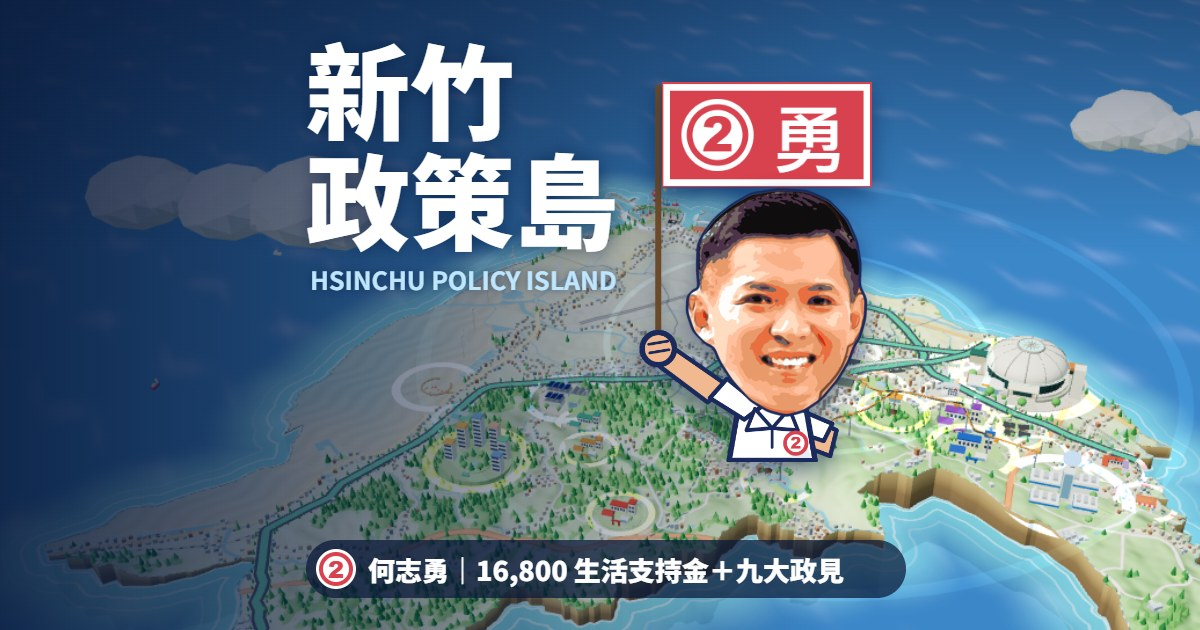
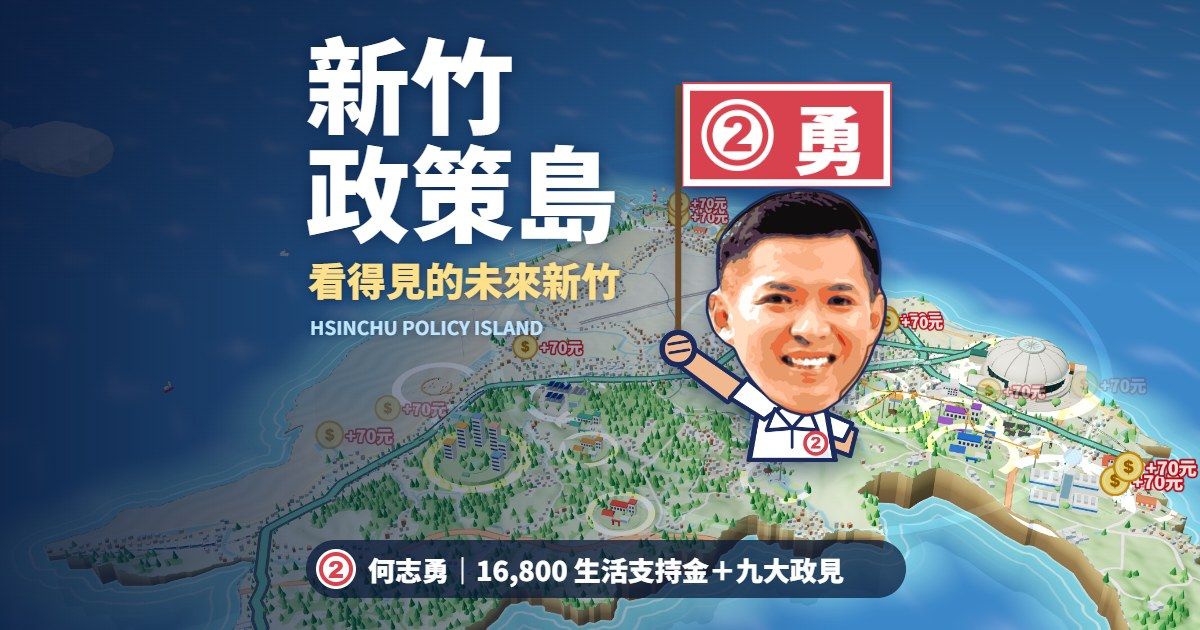
Policy island: add subtitle 看得見的未來新竹 and update intro wording and share image

diff --git a/policy-island/index.html b/policy-island/index.html
@@ -3,28 +3,28 @@
 <head>
   <meta charset="utf-8">
   <meta name="viewport" content="width=device-width, initial-scale=1.0, viewport-fit=cover">
-  <title>新竹政策島｜何志勇 2026 新竹市長候選人</title>
-  <meta name="description" content="用真實地形與道路做出來的 3D 新竹：16,800 市民生活支持金＋何志勇九大政見，全部放在它會發生的地方。智慧巨蛋、鐵路高架、智慧空軌、南寮加州海岸，一次看懂。">
+  <title>新竹政策島｜看得見的未來新竹｜何志勇 2026 新竹市長候選人</title>
+  <meta name="description" content="新竹政策島｜看得見的未來新竹。用真實的地形、道路與海岸所呈現的新竹：16,800 市民生活支持金＋何志勇九大政見，全部放在它會發生的地方。智慧巨蛋、鐵路高架、智慧空軌、南寮加州海岸，一次看懂。">
   <meta name="keywords" content="何志勇, 新竹政策島, 新竹市長, 九大政見, 16800, 智慧巨蛋, 鐵路高架, 亞洲波士頓, 新竹再勇敢一次">
   <link rel="canonical" href="https://chihyungho.github.io/policy-island/">
   <link rel="icon" type="image/jpeg" href="../images/CYH.jpg">
   <meta name="theme-color" content="#0c2447">
-  <meta property="og:title" content="新竹政策島｜何志勇的新竹，一次看懂">
-  <meta property="og:description" content="用真實地形做出來的 3D 新竹。16,800 生活支持金＋九大政見，全部放在它會發生的地方。">
+  <meta property="og:title" content="新竹政策島｜看得見的未來新竹">
+  <meta property="og:description" content="這不是想像出來的島。用真實的地形、道路與海岸所呈現的新竹——16,800 生活支持金加上九大政見，全部放在它會發生的地方。">
   <meta property="og:type" content="website">
   <meta property="og:url" content="https://chihyungho.github.io/policy-island/">
   <meta property="og:locale" content="zh_TW">
-  <meta property="og:image" content="https://chihyungho.github.io/policy-island/assets/og.jpg?v=1">
+  <meta property="og:image" content="https://chihyungho.github.io/policy-island/assets/og.jpg?v=2">
   <meta property="og:image:width" content="1200">
   <meta property="og:image:height" content="630">
   <meta property="og:image:alt" content="新竹政策島：Q 版何志勇舉著 2 號勇字旗，飄在 3D 新竹島上空">
   <meta property="og:site_name" content="何志勇 2026 新竹市長候選人官方網站">
   <meta name="twitter:card" content="summary_large_image">
-  <meta name="twitter:image" content="https://chihyungho.github.io/policy-island/assets/og.jpg?v=1">
+  <meta name="twitter:image" content="https://chihyungho.github.io/policy-island/assets/og.jpg?v=2">
   <link rel="preconnect" href="https://fonts.googleapis.com">
   <link rel="preconnect" href="https://fonts.gstatic.com" crossorigin>
   <link href="https://fonts.googleapis.com/css2?family=Noto+Sans+TC:wght@400;500;700;900&display=swap" rel="stylesheet">
-  <link rel="stylesheet" href="island.css?v=33">
+  <link rel="stylesheet" href="island.css?v=34">
 </head>
 <body>
 <canvas id="scene" aria-label="新竹政策島 3D 地圖"></canvas>
@@ -100,8 +100,9 @@
   <div class="intro-card">
     <div class="intro-badge"><span>2</span>何志勇｜2026 新竹市長候選人</div>
     <h1>新竹<br>政策島</h1>
+    <p class="intro-sub">看得見的未來新竹</p>
     <p class="intro-en">HSINCHU POLICY ISLAND</p>
-    <p class="intro-lead">這不是想像出來的島。<br>這是用<b>真實的地形、道路與海岸</b>做出來的新竹——<br><b>16,800 生活支持金</b>加上<b>九大政見</b>，全部放在它會發生的地方。</p>
+    <p class="intro-lead">這不是想像出來的島。<br>這是用<b>真實的地形、道路與海岸</b>所呈現的新竹——<br><b>16,800 生活支持金</b>加上<b>九大政見</b>，全部放在它會發生的地方。</p>
     <div class="intro-btns">
       <button type="button" id="introGo" class="btn-go"><span class="go-main"><i class="go-no">2</i>新竹再勇敢一次</span><small>看 2 號何志勇怎麼改變新竹 →</small></button>
       <button type="button" id="introTour" class="btn-ghost">▶ 帶我導覽 10 站</button>

diff --git a/policy-island/island.css b/policy-island/island.css
@@ -381,3 +381,7 @@ body[data-ride="brt"] .rv-bus { display: none; }
 
 /* ---- v33：開場畫面也有飄著的 Q 版何志勇 ---- */
 body:not(.started) #mascot { visibility: visible; z-index: 21; }
+
+/* ---- v34：副標「看得見的未來新竹」 ---- */
+.intro-sub { margin: 2px 0 10px; font-size: clamp(22px, 2.7vw, 34px); font-weight: 900; letter-spacing: .14em; color: #ffe08a; text-shadow: 0 3px 14px rgba(0, 24, 70, .55); }
+@media (max-width: 860px) { .intro-sub { font-size: 21px; margin: 0 0 6px; letter-spacing: .1em; } }
